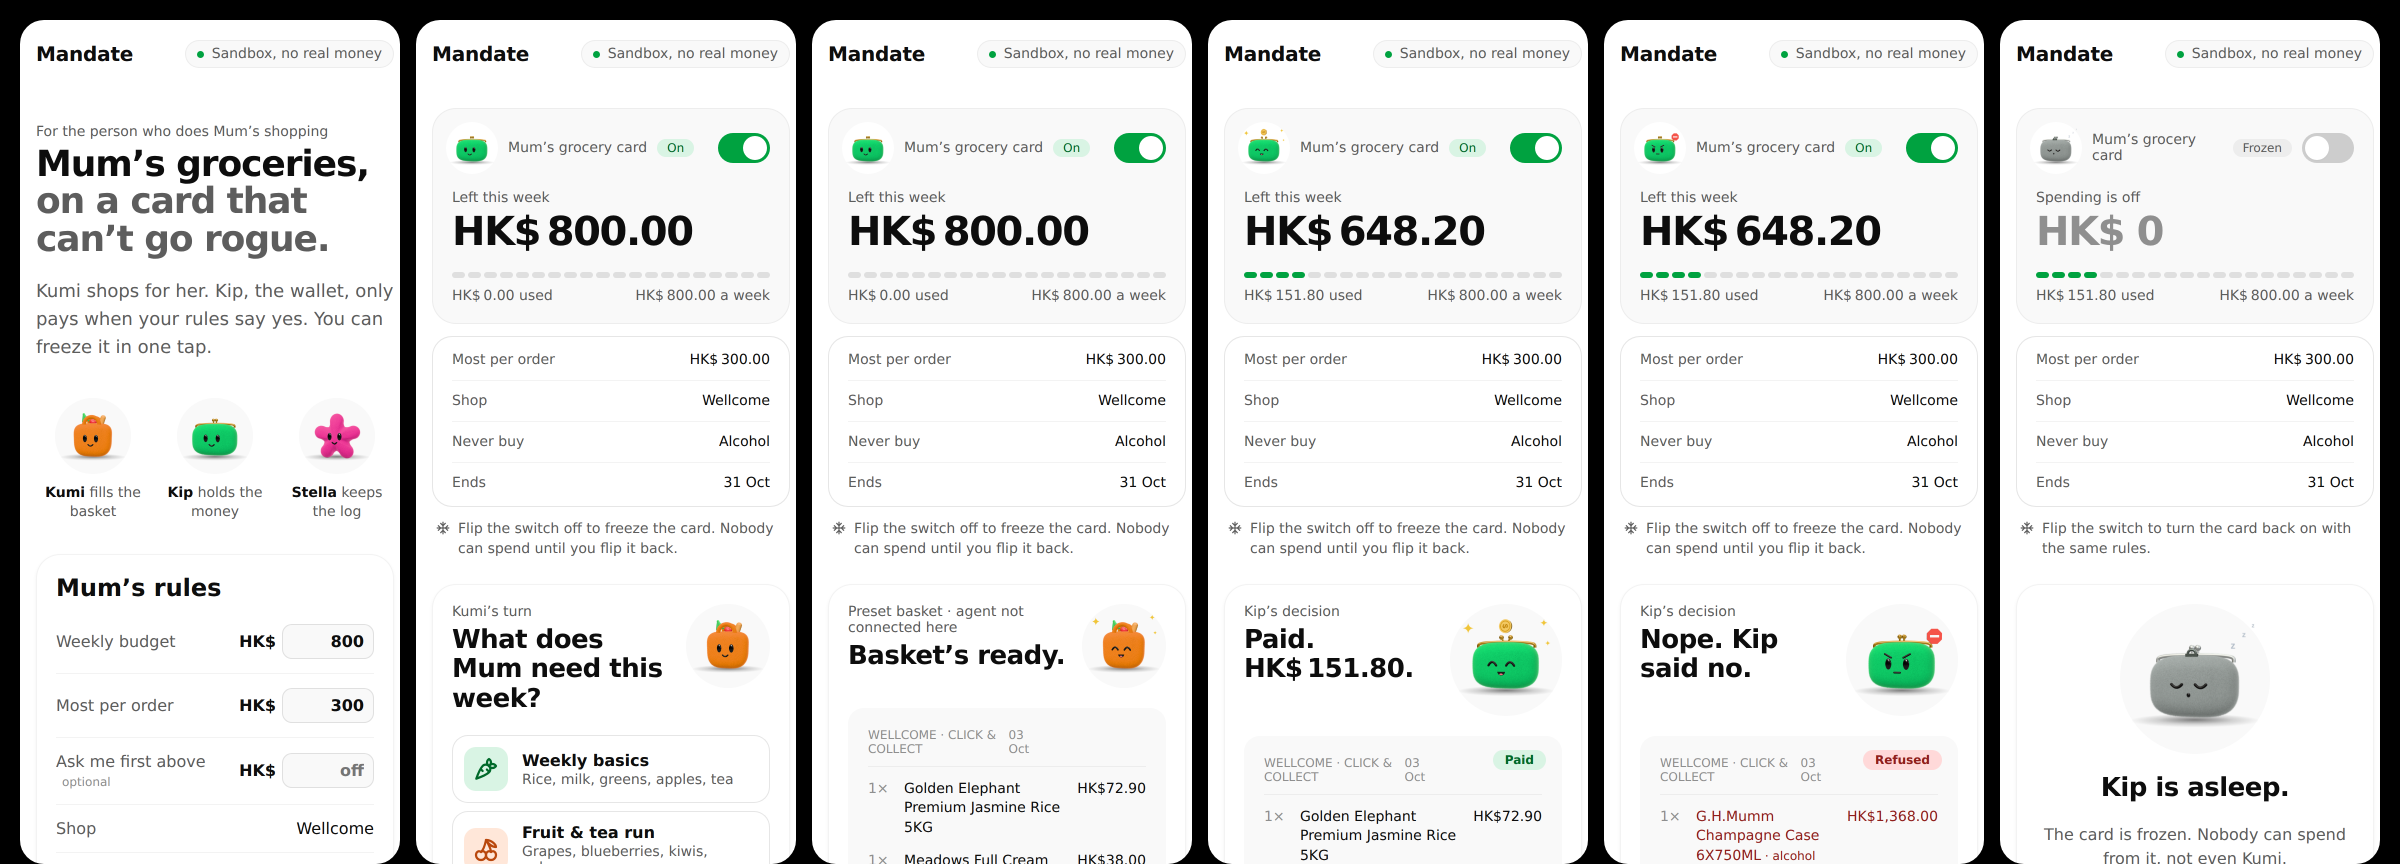
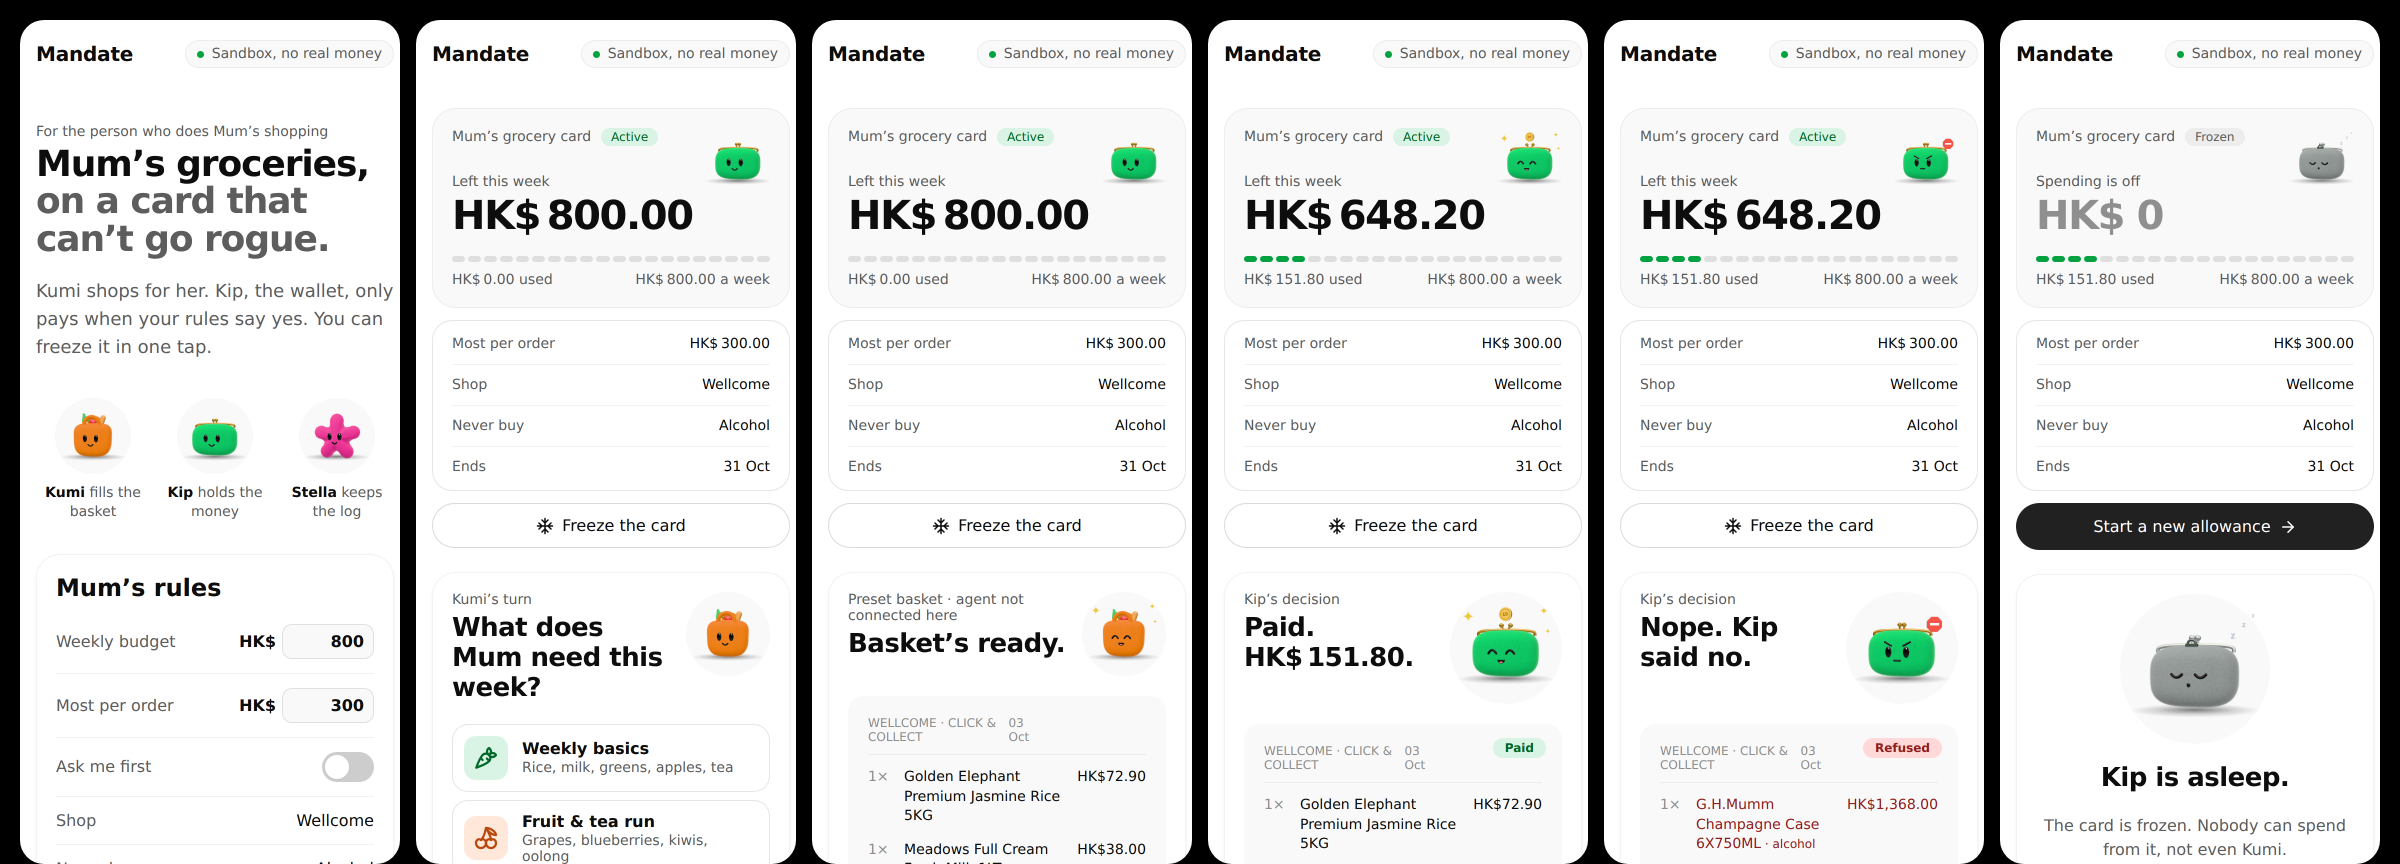
web: put the switch on "ask me first" and bring back the freeze button
The on/off switch belongs on the optional "ask me first" rule, not on
freezing the card. Turning it on reveals the amount field (HK$100 by
default). The card goes back to a Freeze button.

Claude-Session: https://claude.ai/code/session_01LXVsyNnmyhbWTy9EMwCknp

diff --git a/apps/web/src/simple/SimpleApp.tsx b/apps/web/src/simple/SimpleApp.tsx
@@ -81,8 +81,8 @@ function Avatar({ name, state, size = 64, bob = false }: { name: Mascot; state: 
   return <img className={`m2-avatar${bob ? ' m2-bob' : ''}`} src={`/agents/${name}-${state}.png`} alt="" width={size} height={size} />;
 }
 
-function Switch({ on, label, disabled, onChange }: { on: boolean; label: string; disabled?: boolean; onChange: () => void }) {
-  return <button type="button" role="switch" aria-checked={on} aria-label={label} className={`m2-switch${on ? ' on' : ''}`} disabled={disabled} onClick={onChange}><i /></button>;
+function Switch({ on, label, onChange }: { on: boolean; label: string; onChange: () => void }) {
+  return <button type="button" role="switch" aria-checked={on} aria-label={label} className={`m2-switch${on ? ' on' : ''}`} onClick={onChange}><i /></button>;
 }
 
 function Sticker({ name, state, size = 88, tilt = -6 }: { name: Mascot; state: string; size?: number; tilt?: number }) {
@@ -116,7 +116,8 @@ export default function SimpleApp() {
 
   const [weekly, setWeekly] = useState('800');
   const [perOrder, setPerOrder] = useState('300');
-  const [askAbove, setAskAbove] = useState('');
+  const [askOn, setAskOn] = useState(false);
+  const [askAbove, setAskAbove] = useState('100');
   const [setupOpen, setSetupOpen] = useState(false);
 
   const [phase, setPhase] = useState<Phase>('pick');
@@ -174,12 +175,11 @@ export default function SimpleApp() {
   const spent = (period?.paid_minor ?? 0) + (period?.reserved_minor ?? 0);
   const ratio = limit ? Math.min(1, spent / limit) : 0;
 
-  /** Turns the card on with the setup form's values, or with a frozen card's previous rules. */
-  async function activate(previous?: Policy) {
+  async function activate() {
     setError('');
-    const weeklyMinor = previous ? previous.period_limits[0]?.limit_minor ?? 0 : Math.round(Number(weekly) * 100);
-    const orderMinor = previous ? previous.per_order_limit_minor : Math.round(Number(perOrder) * 100);
-    const askMinor = previous ? previous.approval_above_minor : askAbove.trim() ? Math.round(Number(askAbove) * 100) : null;
+    const weeklyMinor = Math.round(Number(weekly) * 100);
+    const orderMinor = Math.round(Number(perOrder) * 100);
+    const askMinor = askOn ? Math.round(Number(askAbove) * 100) : null;
     if (!(weeklyMinor > 0) || !(orderMinor > 0) || (askMinor !== null && !(askMinor > 0))) { setError('Use whole HK$ amounts above zero.'); return; }
     const policy: Policy = {
       currency: 'HKD',
@@ -365,12 +365,12 @@ export default function SimpleApp() {
           <h2>Mum’s rules</h2>
           <label className="m2-ledger-row"><span>Weekly budget</span><b>HK$<input inputMode="numeric" value={weekly} onChange={(e) => setWeekly(e.target.value)} aria-label="Weekly budget in HK$" /></b></label>
           <label className="m2-ledger-row"><span>Most per order</span><b>HK$<input inputMode="numeric" value={perOrder} onChange={(e) => setPerOrder(e.target.value)} aria-label="Maximum per order in HK$" /></b></label>
-          <label className="m2-ledger-row"><span>Ask me first above <small>optional</small></span><b>HK$<input inputMode="numeric" placeholder="off" value={askAbove} onChange={(e) => setAskAbove(e.target.value)} aria-label="Ask me first above this amount in HK$" /></b></label>
+          <div className="m2-ledger-row"><span>Ask me first</span><Switch on={askOn} label="Ask me first before bigger orders" onChange={() => setAskOn(!askOn)} /></div>
+          {askOn && <label className="m2-ledger-row m2-ledger-sub"><span>For orders above</span><b>HK$<input inputMode="numeric" value={askAbove} onChange={(e) => setAskAbove(e.target.value)} aria-label="Ask me first above this amount in HK$" /></b></label>}
           <div className="m2-ledger-row fixed"><span>Shop</span><b>Wellcome</b></div>
           <div className="m2-ledger-row fixed"><span>Never buy</span><b>Alcohol</b></div>
           <div className="m2-ledger-row fixed"><span>Lasts</span><b>4 weeks</b></div>
-          <div className="m2-switch-row"><span><b>Mum’s card</b><small>{busy === 'activate' ? 'Switching on…' : 'Off. Flip it on to start.'}</small></span>
-            <Switch on={busy === 'activate'} label="Switch on Mum’s card" disabled={busy === 'activate' || online === false} onChange={() => void activate()} /></div>
+          <button className="m2-cta" onClick={() => void activate()} disabled={busy === 'activate' || online === false}>{busy === 'activate' ? 'Switching on…' : 'Switch on Mum’s card'}<ArrowRight size={18} /></button>
           {setupOpen && mandate && <button className="m2-link" onClick={() => setSetupOpen(false)}>Back</button>}
         </div>
       </section>
@@ -378,12 +378,11 @@ export default function SimpleApp() {
       <main className="m2-grid">
         <section className="m2-col m2-area-card">
           <div className={`m2-card ${active ? '' : 'frozen'}`}>
-            <div className="m2-card-top"><Sticker name="kip" state={kipState} size={52} tilt={0} /><span>Mum’s grocery card</span><span className="m2-status">{busy === 'freeze' ? 'Freezing…' : busy === 'activate' ? 'Switching on…' : active ? 'On' : mandate.status === 'expired' ? 'Expired' : 'Frozen'}</span>
-              <Switch on={busy === 'activate' || (active && busy !== 'freeze')} label={active ? 'Freeze Mum’s card' : 'Switch Mum’s card back on'} disabled={busy === 'freeze' || busy === 'activate' || online === false}
-                onChange={() => void (active ? freeze() : activate(mandate.policy))} /></div>
+            <div className="m2-card-top"><span>Mum’s grocery card</span><span className="m2-status">{active ? 'Active' : mandate.status === 'expired' ? 'Expired' : 'Frozen'}</span></div>
             <div className="m2-card-amount"><small>{active ? 'Left this week' : 'Spending is off'}</small><b>{active ? hkd(available) : 'HK$ 0'}</b></div>
             <div className="m2-meter" aria-hidden>{Array.from({ length: 20 }, (_, i) => <i key={i} className={i < Math.round(ratio * 20) ? 'on' : ''} />)}</div>
             <div className="m2-card-foot"><span>{hkd(spent)} used</span><span>{hkd(limit)} a week</span></div>
+            <div className="m2-card-sticker"><Sticker name="kip" state={kipState} size={104} tilt={8} /></div>
           </div>
           <dl className="m2-rules">
             <div><dt>Most per order</dt><dd>{hkd(mandate.policy.per_order_limit_minor)}</dd></div>
@@ -392,7 +391,9 @@ export default function SimpleApp() {
             {mandate.policy.approval_above_minor != null && <div><dt>Ask me first above</dt><dd>{hkd(mandate.policy.approval_above_minor)}</dd></div>}
             <div><dt>Ends</dt><dd>{expires}</dd></div>
           </dl>
-          <p className="m2-switch-hint"><Snowflake size={14} />{active ? 'Flip the switch off to freeze the card. Nobody can spend until you flip it back.' : 'Flip the switch to turn the card back on with the same rules.'}</p>
+          {active
+            ? <button className="m2-freeze" onClick={() => void freeze()} disabled={busy === 'freeze'}><Snowflake size={18} />{busy === 'freeze' ? 'Freezing…' : 'Freeze the card'}</button>
+            : <button className="m2-cta" onClick={() => setSetupOpen(true)}>Start a new allowance<ArrowRight size={18} /></button>}
         </section>
 
         <section className="m2-col m2-area-feed">

diff --git a/apps/web/src/simple/simple.css b/apps/web/src/simple/simple.css
@@ -63,17 +63,17 @@ button:disabled{cursor:not-allowed;opacity:.4}
 
 /* Card */
 .m2-card{position:relative;padding:calc(var(--spacing)*6);border-radius:var(--radius-4xl);background:var(--color-surface-secondary);box-shadow:inset 0 0 0 1px var(--color-border-subtle)}
-.m2-card-top{display:flex;align-items:center;gap:10px;position:relative;z-index:1;font-size:var(--font-text-sm-size);font-weight:var(--font-weight-medium);color:var(--color-text-secondary)}
+.m2-card-top{display:flex;align-items:center;gap:10px;font-size:var(--font-text-sm-size);font-weight:var(--font-weight-medium);color:var(--color-text-secondary)}
 .m2-status{padding:2px 10px;border-radius:var(--radius-full);background:var(--color-background-success-soft);color:var(--color-text-success);font-size:12px}
 .frozen .m2-status{background:var(--gray-100);color:var(--color-text-secondary)}
-.m2-card-amount{margin:22px 0 20px}
+.m2-card-amount{margin:28px 0 20px}
 .m2-card-amount small{display:block;font-size:var(--font-text-sm-size);color:var(--color-text-secondary);margin-bottom:6px}
 .m2-card-amount b{display:block;font-weight:var(--font-weight-semibold);font-size:clamp(40px,6vw,var(--font-heading-4xl-size));letter-spacing:-.035em;line-height:1;font-variant-numeric:tabular-nums}
 .frozen .m2-card-amount b{color:var(--color-text-tertiary)}
 .m2-meter{display:grid;grid-template-columns:repeat(20,1fr);gap:3px;margin-bottom:10px}
 .m2-meter i{height:6px;border-radius:var(--radius-full);background:var(--gray-150)}.m2-meter i.on{background:var(--green-500)}
 .m2-card-foot{display:flex;justify-content:space-between;font-size:var(--font-text-sm-size);color:var(--color-text-secondary);font-variant-numeric:tabular-nums}
-.m2-card-sticker{position:absolute;top:64px;right:14px}
+.m2-card-sticker{position:absolute;top:14px;right:14px}
 .m2-card-sticker .m2-sticker{background:transparent;width:96px!important;height:96px!important}
 .m2-rules{margin:0;padding:4px 20px;border-radius:var(--radius-3xl);box-shadow:inset 0 0 0 1px var(--color-border)}
 .m2-rules div{display:flex;justify-content:space-between;gap:10px;padding:12px 0;border-bottom:1px solid var(--color-border-subtle);font-size:var(--font-text-sm-size)}
@@ -149,14 +149,9 @@ button:disabled{cursor:not-allowed;opacity:.4}
 @media(prefers-reduced-motion:reduce){.m2-bob,.m2-dots i,.m2-stamp{animation:none}}
 
 /* On/off switch */
-.m2-switch{position:relative;flex:none;width:52px;height:30px;margin-left:auto;border-radius:var(--radius-full);background:var(--gray-200);transition:background .2s}
+.m2-switch{position:relative;flex:none;width:52px;height:30px;border-radius:var(--radius-full);background:var(--gray-200);transition:background .2s}
 .m2-switch i{position:absolute;top:3px;left:3px;width:24px;height:24px;border-radius:50%;background:var(--gray-0);box-shadow:var(--shadow-100);transition:transform .2s}
 .m2-switch.on{background:var(--green-500)}.m2-switch.on i{transform:translateX(22px)}
 .m2-switch:focus-visible{outline:2px solid var(--gray-1000);outline-offset:2px}
-.m2-switch:disabled{opacity:.6}
-.m2-switch-row{display:flex;align-items:center;gap:16px;margin-top:24px;padding:16px 18px;border-radius:var(--radius-2xl);background:var(--color-surface-secondary)}
-.m2-switch-row span{display:grid;gap:2px;flex:1}.m2-switch-row small{font-size:var(--font-text-sm-size);color:var(--color-text-secondary)}
-.m2-switch-row .m2-switch{width:60px;height:34px}.m2-switch-row .m2-switch i{width:28px;height:28px}.m2-switch-row .m2-switch.on i{transform:translateX(26px)}
-.m2-switch-hint{display:flex;align-items:flex-start;gap:8px;margin:0;padding:0 4px;font-size:var(--font-text-sm-size);color:var(--color-text-secondary);line-height:1.45}.m2-switch-hint svg{flex:none;margin-top:2px}
+.m2-ledger-sub{padding-left:16px}
 @media(max-width:480px){.m2-cast{gap:8px;flex-wrap:nowrap}.m2-cast figure{width:auto;flex:1}}
-.m2-card-top .m2-sticker{background:var(--color-surface);margin:-6px 0 -6px -6px}
